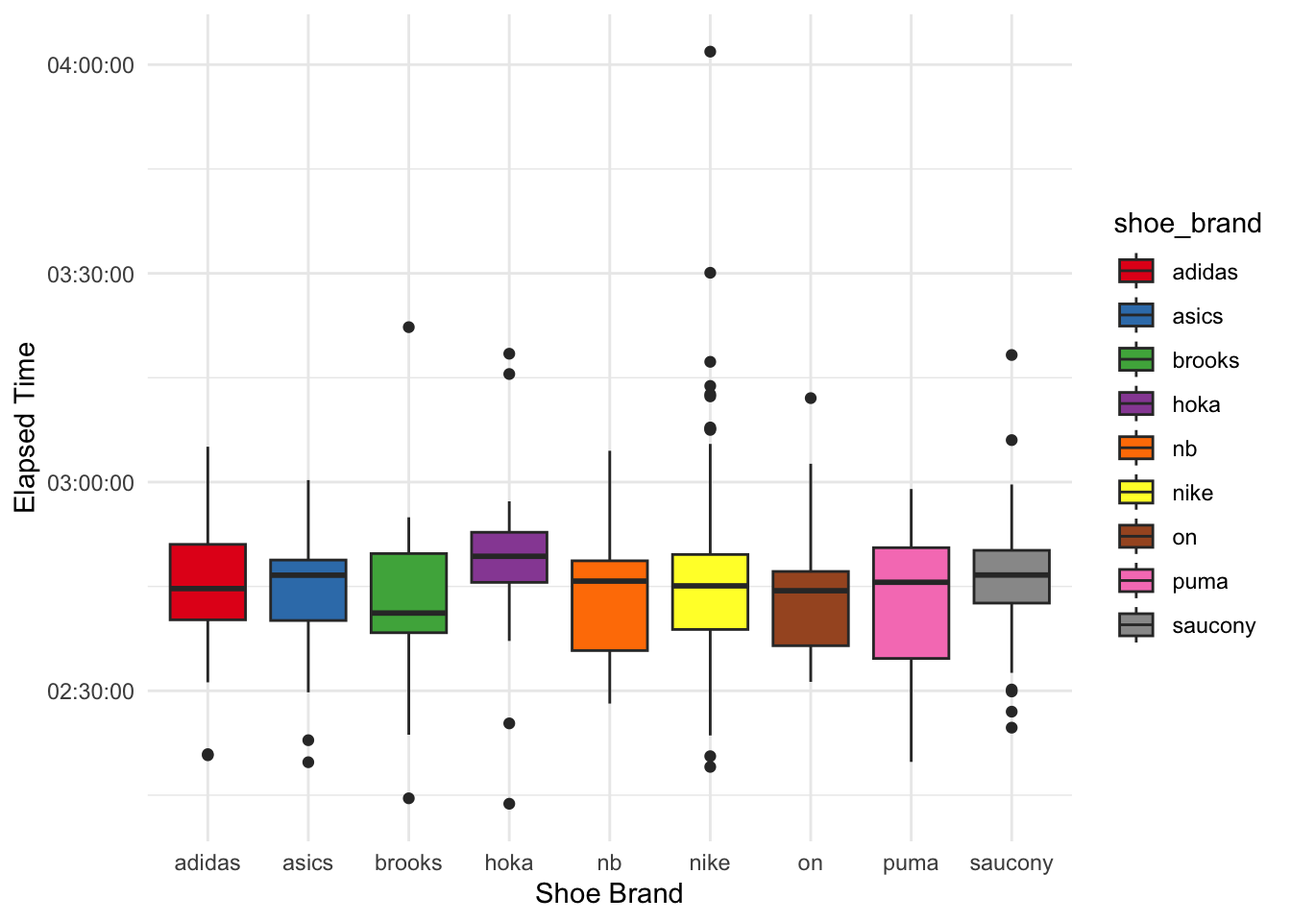
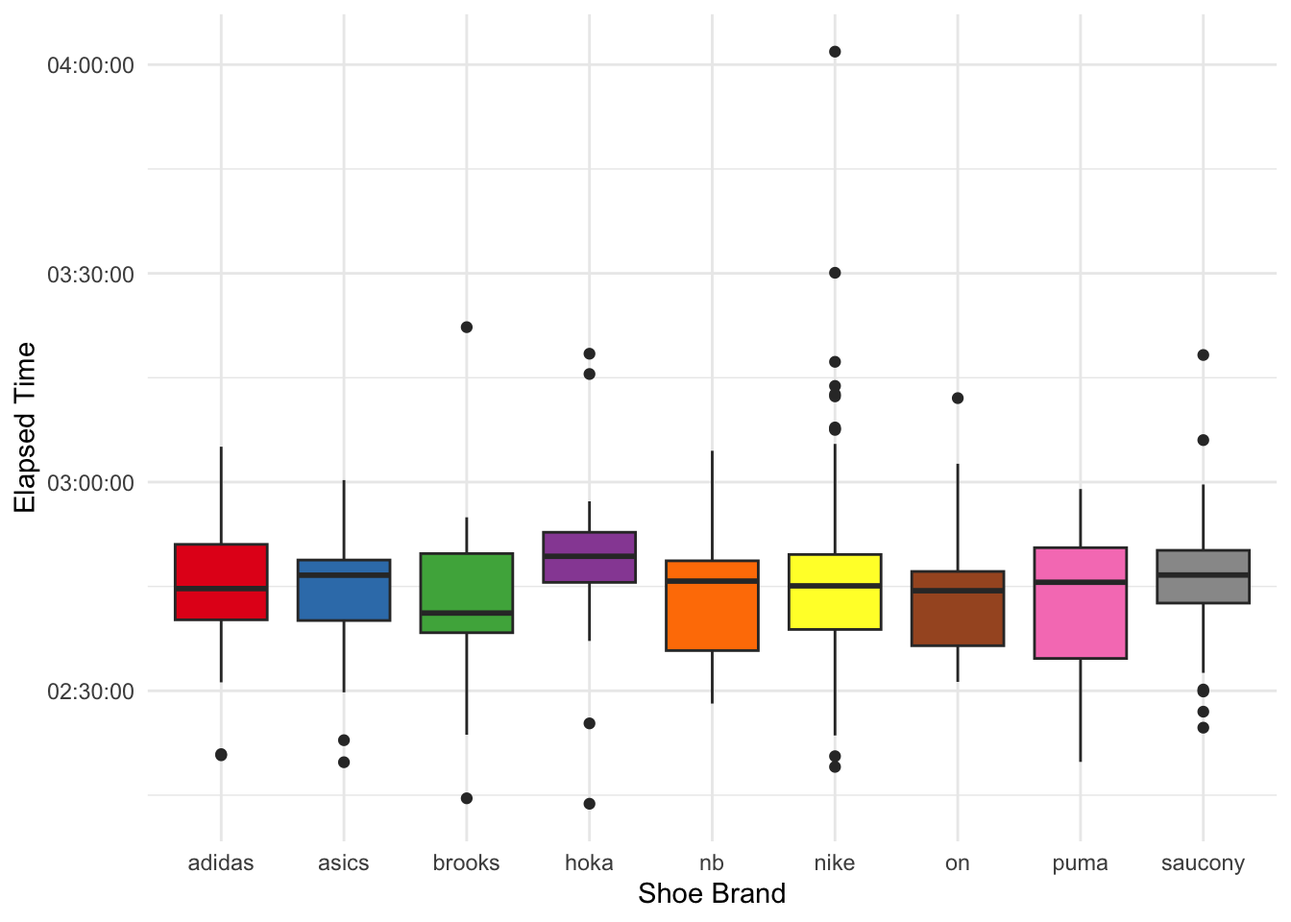
Built site for gh-pages

diff --git a/projects/boston_marathon_procrastination.html b/projects/boston_marathon_procrastination.html
@@ -174,7 +174,7 @@ pre > code.sourceCode > span > a:first-child::before { text-decoration: underlin
   <li><a href="#step-2-collecting-activity-urls" id="toc-step-2-collecting-activity-urls" class="nav-link" data-scroll-target="#step-2-collecting-activity-urls">Step 2: Collecting Activity URLs</a></li>
   <li><a href="#step-3-scraping-individual-activities" id="toc-step-3-scraping-individual-activities" class="nav-link" data-scroll-target="#step-3-scraping-individual-activities">Step 3: Scraping Individual Activities</a></li>
   <li><a href="#step-4-the-fun-part-data-cleaning-in-r" id="toc-step-4-the-fun-part-data-cleaning-in-r" class="nav-link" data-scroll-target="#step-4-the-fun-part-data-cleaning-in-r">Step 4: The Fun Part – Data Cleaning in R</a></li>
-  <li><a href="#cleaning-watches" id="toc-cleaning-watches" class="nav-link" data-scroll-target="#cleaning-watches">Cleaning Watches</a></li>
+  <li><a href="#cleaning-watch-data" id="toc-cleaning-watch-data" class="nav-link" data-scroll-target="#cleaning-watch-data">Cleaning Watch Data</a></li>
   <li><a href="#cleaning-shoes" id="toc-cleaning-shoes" class="nav-link" data-scroll-target="#cleaning-shoes">Cleaning Shoes</a></li>
   <li><a href="#descriptives" id="toc-descriptives" class="nav-link" data-scroll-target="#descriptives">Descriptives</a>
   <ul class="collapse">
@@ -561,9 +561,9 @@ pre > code.sourceCode > span > a:first-child::before { text-decoration: underlin
 </div>
 </div>
 </section>
-<section id="cleaning-watches" class="level2">
-<h2 class="anchored" data-anchor-id="cleaning-watches">Cleaning Watches</h2>
-<p>First, I wanted to know what kinds of watches people used. This data is fairly clean since they come straight from the API and, as of lately, Strava by default shows the manufacturer and model. There are of course many varieties of watches, thus I aimed to reduce them to manufacturer and model (e.g., “Garmin Forerunner” instead of “Garmin Forerunner 265 Music”).</p>
+<section id="cleaning-watch-data" class="level2">
+<h2 class="anchored" data-anchor-id="cleaning-watch-data">Cleaning Watch Data</h2>
+<p>First, I wanted to know what kinds of watches people used. This data is fairly clean since they come straight from the API and, as of lately, Strava by default shows the manufacturer and model. There are of course many varieties of watches, thus I aimed to reduce them to manufacturer and model category (e.g., “Garmin Forerunner” instead of “Garmin Forerunner 265 Music”).</p>
 <div class="cell">
 <details class="code-fold">
 <summary>Show the code</summary>
@@ -657,7 +657,7 @@ pre > code.sourceCode > span > a:first-child::before { text-decoration: underlin
 </section>
 <section id="cleaning-shoes" class="level2">
 <h2 class="anchored" data-anchor-id="cleaning-shoes">Cleaning Shoes</h2>
-<p>And of course, the shoes – because runners care about shoes almost as much as their splits. Here, the data are manually entered and, thus, messy. However, since you are forced to choose the brand from a drop down menu, at least this part is clean.</p>
+<p>And of course, the shoes – because runners care about shoes almost as much as their splits. Here, the data are manually entered by each user and, thus, messy. However, since you are forced to choose the brand from a drop down menu, at least this part is clean.</p>
 <div class="cell">
 <details class="code-fold">
 <summary>Show the code</summary>
@@ -776,8 +776,8 @@ pre > code.sourceCode > span > a:first-child::before { text-decoration: underlin
 </div>
 </div>
 </div>
-<p>The folks I scraped where quite fast, median elapsed time was around 2:45 minutes. However, there are four outliers that started very fast but paid for it eventually.</p>
-<p>Furthermore, most runners who started strong also finished strong. This is indicated by their rank in the segment and the final rank in the elapsed time (I did not scrape the exact segment time). However, some of them dearly paid for it.</p>
+<p>The folks I scraped where quite fast, median elapsed time was around 2:45 hours. However, there are four outliers that started very fast but paid for it eventually. Also, the Boston Marathon qualifying times lie at around 3:30h (depending on age and gender), so we are dealing with a very fit sub-sample here.</p>
+<p>Most runners who started strong also finished strong. The following graphs plots their rank in the segment (i.e., their position in the field at the halfway point) and the final rank in the elapsed time (I did not scrape the exact segment time). However, some of them dearly paid for it.</p>
 <div class="cell">
 <details class="code-fold">
 <summary>Show the code</summary>
@@ -827,8 +827,8 @@ pre > code.sourceCode > span > a:first-child::before { text-decoration: underlin
 <span id="cb14-16"><a href="#cb14-16" aria-hidden="true" tabindex="-1"></a>shoe_cat <span class="sc">|&gt;</span> <span class="fu">ggplotly</span>(<span class="at">tooltip =</span> <span class="st">"text"</span>)</span></code></pre></div><button title="Copy to Clipboard" class="code-copy-button"><i class="bi"></i></button></div>
 </details>
 <div class="cell-output-display">
-<div class="plotly html-widget html-fill-item" id="htmlwidget-09c203fb37da6665b587" style="width:100%;height:464px;"></div>
-<script type="application/json" data-for="htmlwidget-09c203fb37da6665b587">{"x":{"data":[{"orientation":"v","width":0.89999999999999991,"base":0,"x":[1],"y":[70],"text":"adidas, N=70","type":"bar","textposition":"none","marker":{"autocolorscale":false,"color":"rgba(228,26,28,1)","line":{"width":1.8897637795275593,"color":"transparent"}},"name":"adidas","legendgroup":"adidas","showlegend":true,"xaxis":"x","yaxis":"y","hoverinfo":"text","frame":null},{"orientation":"v","width":0.90000000000000013,"base":0,"x":[2],"y":[60],"text":"asics, N=60","type":"bar","textposition":"none","marker":{"autocolorscale":false,"color":"rgba(55,126,184,1)","line":{"width":1.8897637795275593,"color":"transparent"}},"name":"asics","legendgroup":"asics","showlegend":true,"xaxis":"x","yaxis":"y","hoverinfo":"text","frame":null},{"orientation":"v","width":0.90000000000000036,"base":0,"x":[3],"y":[10],"text":"brooks, N=10","type":"bar","textposition":"none","marker":{"autocolorscale":false,"color":"rgba(77,175,74,1)","line":{"width":1.8897637795275593,"color":"transparent"}},"name":"brooks","legendgroup":"brooks","showlegend":true,"xaxis":"x","yaxis":"y","hoverinfo":"text","frame":null},{"orientation":"v","width":0.90000000000000036,"base":0,"x":[4],"y":[17],"text":"hoka, N=17","type":"bar","textposition":"none","marker":{"autocolorscale":false,"color":"rgba(152,78,163,1)","line":{"width":1.8897637795275593,"color":"transparent"}},"name":"hoka","legendgroup":"hoka","showlegend":true,"xaxis":"x","yaxis":"y","hoverinfo":"text","frame":null},{"orientation":"v","width":0.90000000000000036,"base":0,"x":[5],"y":[21],"text":"nb, N=21","type":"bar","textposition":"none","marker":{"autocolorscale":false,"color":"rgba(255,127,0,1)","line":{"width":1.8897637795275593,"color":"transparent"}},"name":"nb","legendgroup":"nb","showlegend":true,"xaxis":"x","yaxis":"y","hoverinfo":"text","frame":null},{"orientation":"v","width":0.90000000000000036,"base":0,"x":[6],"y":[278],"text":"nike, N=278","type":"bar","textposition":"none","marker":{"autocolorscale":false,"color":"rgba(255,255,51,1)","line":{"width":1.8897637795275593,"color":"transparent"}},"name":"nike","legendgroup":"nike","showlegend":true,"xaxis":"x","yaxis":"y","hoverinfo":"text","frame":null},{"orientation":"v","width":0.90000000000000036,"base":0,"x":[7],"y":[15],"text":"on, N=15","type":"bar","textposition":"none","marker":{"autocolorscale":false,"color":"rgba(166,86,40,1)","line":{"width":1.8897637795275593,"color":"transparent"}},"name":"on","legendgroup":"on","showlegend":true,"xaxis":"x","yaxis":"y","hoverinfo":"text","frame":null},{"orientation":"v","width":0.89999999999999947,"base":0,"x":[8],"y":[29],"text":"puma, N=29","type":"bar","textposition":"none","marker":{"autocolorscale":false,"color":"rgba(247,129,191,1)","line":{"width":1.8897637795275593,"color":"transparent"}},"name":"puma","legendgroup":"puma","showlegend":true,"xaxis":"x","yaxis":"y","hoverinfo":"text","frame":null},{"orientation":"v","width":0.89999999999999858,"base":0,"x":[9],"y":[64],"text":"saucony, N=64","type":"bar","textposition":"none","marker":{"autocolorscale":false,"color":"rgba(153,153,153,1)","line":{"width":1.8897637795275593,"color":"transparent"}},"name":"saucony","legendgroup":"saucony","showlegend":true,"xaxis":"x","yaxis":"y","hoverinfo":"text","frame":null}],"layout":{"margin":{"t":23.305936073059364,"r":7.3059360730593621,"b":37.260273972602747,"l":43.105022831050235},"paper_bgcolor":"rgba(255,255,255,1)","font":{"color":"rgba(0,0,0,1)","family":"","size":14.611872146118724},"xaxis":{"domain":[0,1],"automargin":true,"type":"linear","autorange":false,"range":[0.40000000000000002,9.5999999999999996],"tickmode":"array","ticktext":["adidas","asics","brooks","hoka","nb","nike","on","puma","saucony"],"tickvals":[1,2,3,4,5,6,6.9999999999999991,8,9],"categoryorder":"array","categoryarray":["adidas","asics","brooks","hoka","nb","nike","on","puma","saucony"],"nticks":null,"ticks":"","tickcolor":null,"ticklen":3.6529680365296811,"tickwidth":0,"showticklabels":true,"tickfont":{"color":"rgba(77,77,77,1)","family":"","size":11.68949771689498},"tickangle":-0,"showline":false,"linecolor":null,"linewidth":0,"showgrid":true,"gridcolor":"rgba(235,235,235,1)","gridwidth":0,"zeroline":false,"anchor":"y","title":{"text":"Shoe Brand","font":{"color":"rgba(0,0,0,1)","family":"","size":14.611872146118724}},"hoverformat":".2f"},"yaxis":{"domain":[0,1],"automargin":true,"type":"linear","autorange":false,"range":[-13.9,291.89999999999998],"tickmode":"array","ticktext":["0","100","200"],"tickvals":[0,100,200],"categoryorder":"array","categoryarray":["0","100","200"],"nticks":null,"ticks":"","tickcolor":null,"ticklen":3.6529680365296811,"tickwidth":0,"showticklabels":true,"tickfont":{"color":"rgba(77,77,77,1)","family":"","size":11.68949771689498},"tickangle":-0,"showline":false,"linecolor":null,"linewidth":0,"showgrid":true,"gridcolor":"rgba(235,235,235,1)","gridwidth":0,"zeroline":false,"anchor":"x","title":{"text":"N","font":{"color":"rgba(0,0,0,1)","family":"","size":14.611872146118724}},"hoverformat":".2f"},"shapes":[{"type":"rect","fillcolor":null,"line":{"color":null,"width":0,"linetype":[]},"yref":"paper","xref":"paper","layer":"below","x0":0,"x1":1,"y0":0,"y1":1}],"showlegend":false,"legend":{"bgcolor":null,"bordercolor":null,"borderwidth":0,"font":{"color":"rgba(0,0,0,1)","family":"","size":11.68949771689498}},"hovermode":"closest","barmode":"relative"},"config":{"doubleClick":"reset","modeBarButtonsToAdd":["hoverclosest","hovercompare"],"showSendToCloud":false},"source":"A","attrs":{"107a3218a0275":{"x":{},"fill":{},"text":{},"type":"bar"}},"cur_data":"107a3218a0275","visdat":{"107a3218a0275":["function (y) ","x"]},"highlight":{"on":"plotly_click","persistent":false,"dynamic":false,"selectize":false,"opacityDim":0.20000000000000001,"selected":{"opacity":1},"debounce":0},"shinyEvents":["plotly_hover","plotly_click","plotly_selected","plotly_relayout","plotly_brushed","plotly_brushing","plotly_clickannotation","plotly_doubleclick","plotly_deselect","plotly_afterplot","plotly_sunburstclick"],"base_url":"https://plot.ly"},"evals":[],"jsHooks":[]}</script>
+<div class="plotly html-widget html-fill-item" id="htmlwidget-5b1e8bb3b253fdeb2d6c" style="width:100%;height:464px;"></div>
+<script type="application/json" data-for="htmlwidget-5b1e8bb3b253fdeb2d6c">{"x":{"data":[{"orientation":"v","width":0.89999999999999991,"base":0,"x":[1],"y":[70],"text":"adidas, N=70","type":"bar","textposition":"none","marker":{"autocolorscale":false,"color":"rgba(228,26,28,1)","line":{"width":1.8897637795275593,"color":"transparent"}},"name":"adidas","legendgroup":"adidas","showlegend":true,"xaxis":"x","yaxis":"y","hoverinfo":"text","frame":null},{"orientation":"v","width":0.90000000000000013,"base":0,"x":[2],"y":[60],"text":"asics, N=60","type":"bar","textposition":"none","marker":{"autocolorscale":false,"color":"rgba(55,126,184,1)","line":{"width":1.8897637795275593,"color":"transparent"}},"name":"asics","legendgroup":"asics","showlegend":true,"xaxis":"x","yaxis":"y","hoverinfo":"text","frame":null},{"orientation":"v","width":0.90000000000000036,"base":0,"x":[3],"y":[10],"text":"brooks, N=10","type":"bar","textposition":"none","marker":{"autocolorscale":false,"color":"rgba(77,175,74,1)","line":{"width":1.8897637795275593,"color":"transparent"}},"name":"brooks","legendgroup":"brooks","showlegend":true,"xaxis":"x","yaxis":"y","hoverinfo":"text","frame":null},{"orientation":"v","width":0.90000000000000036,"base":0,"x":[4],"y":[17],"text":"hoka, N=17","type":"bar","textposition":"none","marker":{"autocolorscale":false,"color":"rgba(152,78,163,1)","line":{"width":1.8897637795275593,"color":"transparent"}},"name":"hoka","legendgroup":"hoka","showlegend":true,"xaxis":"x","yaxis":"y","hoverinfo":"text","frame":null},{"orientation":"v","width":0.90000000000000036,"base":0,"x":[5],"y":[21],"text":"nb, N=21","type":"bar","textposition":"none","marker":{"autocolorscale":false,"color":"rgba(255,127,0,1)","line":{"width":1.8897637795275593,"color":"transparent"}},"name":"nb","legendgroup":"nb","showlegend":true,"xaxis":"x","yaxis":"y","hoverinfo":"text","frame":null},{"orientation":"v","width":0.90000000000000036,"base":0,"x":[6],"y":[278],"text":"nike, N=278","type":"bar","textposition":"none","marker":{"autocolorscale":false,"color":"rgba(255,255,51,1)","line":{"width":1.8897637795275593,"color":"transparent"}},"name":"nike","legendgroup":"nike","showlegend":true,"xaxis":"x","yaxis":"y","hoverinfo":"text","frame":null},{"orientation":"v","width":0.90000000000000036,"base":0,"x":[7],"y":[15],"text":"on, N=15","type":"bar","textposition":"none","marker":{"autocolorscale":false,"color":"rgba(166,86,40,1)","line":{"width":1.8897637795275593,"color":"transparent"}},"name":"on","legendgroup":"on","showlegend":true,"xaxis":"x","yaxis":"y","hoverinfo":"text","frame":null},{"orientation":"v","width":0.89999999999999947,"base":0,"x":[8],"y":[29],"text":"puma, N=29","type":"bar","textposition":"none","marker":{"autocolorscale":false,"color":"rgba(247,129,191,1)","line":{"width":1.8897637795275593,"color":"transparent"}},"name":"puma","legendgroup":"puma","showlegend":true,"xaxis":"x","yaxis":"y","hoverinfo":"text","frame":null},{"orientation":"v","width":0.89999999999999858,"base":0,"x":[9],"y":[64],"text":"saucony, N=64","type":"bar","textposition":"none","marker":{"autocolorscale":false,"color":"rgba(153,153,153,1)","line":{"width":1.8897637795275593,"color":"transparent"}},"name":"saucony","legendgroup":"saucony","showlegend":true,"xaxis":"x","yaxis":"y","hoverinfo":"text","frame":null}],"layout":{"margin":{"t":23.305936073059364,"r":7.3059360730593621,"b":37.260273972602747,"l":43.105022831050235},"paper_bgcolor":"rgba(255,255,255,1)","font":{"color":"rgba(0,0,0,1)","family":"","size":14.611872146118724},"xaxis":{"domain":[0,1],"automargin":true,"type":"linear","autorange":false,"range":[0.40000000000000002,9.5999999999999996],"tickmode":"array","ticktext":["adidas","asics","brooks","hoka","nb","nike","on","puma","saucony"],"tickvals":[1,2,3,4,5,6,6.9999999999999991,8,9],"categoryorder":"array","categoryarray":["adidas","asics","brooks","hoka","nb","nike","on","puma","saucony"],"nticks":null,"ticks":"","tickcolor":null,"ticklen":3.6529680365296811,"tickwidth":0,"showticklabels":true,"tickfont":{"color":"rgba(77,77,77,1)","family":"","size":11.68949771689498},"tickangle":-0,"showline":false,"linecolor":null,"linewidth":0,"showgrid":true,"gridcolor":"rgba(235,235,235,1)","gridwidth":0,"zeroline":false,"anchor":"y","title":{"text":"Shoe Brand","font":{"color":"rgba(0,0,0,1)","family":"","size":14.611872146118724}},"hoverformat":".2f"},"yaxis":{"domain":[0,1],"automargin":true,"type":"linear","autorange":false,"range":[-13.9,291.89999999999998],"tickmode":"array","ticktext":["0","100","200"],"tickvals":[0,100,200],"categoryorder":"array","categoryarray":["0","100","200"],"nticks":null,"ticks":"","tickcolor":null,"ticklen":3.6529680365296811,"tickwidth":0,"showticklabels":true,"tickfont":{"color":"rgba(77,77,77,1)","family":"","size":11.68949771689498},"tickangle":-0,"showline":false,"linecolor":null,"linewidth":0,"showgrid":true,"gridcolor":"rgba(235,235,235,1)","gridwidth":0,"zeroline":false,"anchor":"x","title":{"text":"N","font":{"color":"rgba(0,0,0,1)","family":"","size":14.611872146118724}},"hoverformat":".2f"},"shapes":[{"type":"rect","fillcolor":null,"line":{"color":null,"width":0,"linetype":[]},"yref":"paper","xref":"paper","layer":"below","x0":0,"x1":1,"y0":0,"y1":1}],"showlegend":false,"legend":{"bgcolor":null,"bordercolor":null,"borderwidth":0,"font":{"color":"rgba(0,0,0,1)","family":"","size":11.68949771689498}},"hovermode":"closest","barmode":"relative"},"config":{"doubleClick":"reset","modeBarButtonsToAdd":["hoverclosest","hovercompare"],"showSendToCloud":false},"source":"A","attrs":{"109e15c8fb94d":{"x":{},"fill":{},"text":{},"type":"bar"}},"cur_data":"109e15c8fb94d","visdat":{"109e15c8fb94d":["function (y) ","x"]},"highlight":{"on":"plotly_click","persistent":false,"dynamic":false,"selectize":false,"opacityDim":0.20000000000000001,"selected":{"opacity":1},"debounce":0},"shinyEvents":["plotly_hover","plotly_click","plotly_selected","plotly_relayout","plotly_brushed","plotly_brushing","plotly_clickannotation","plotly_doubleclick","plotly_deselect","plotly_afterplot","plotly_sunburstclick"],"base_url":"https://plot.ly"},"evals":[],"jsHooks":[]}</script>
 </div>
 </div>
 <p>Nike clearly dominates here.</p>
@@ -855,8 +855,8 @@ pre > code.sourceCode > span > a:first-child::before { text-decoration: underlin
 <span id="cb15-17"><a href="#cb15-17" aria-hidden="true" tabindex="-1"></a>watch_model_cat <span class="sc">|&gt;</span> <span class="fu">ggplotly</span>(<span class="at">tooltip =</span> <span class="st">"text"</span>)</span></code></pre></div><button title="Copy to Clipboard" class="code-copy-button"><i class="bi"></i></button></div>
 </details>
 <div class="cell-output-display">
-<div class="plotly html-widget html-fill-item" id="htmlwidget-c178143cde78e5b0a497" style="width:100%;height:464px;"></div>
-<script type="application/json" data-for="htmlwidget-c178143cde78e5b0a497">{"x":{"data":[{"orientation":"v","width":0.90000000000000036,"base":13,"x":[5],"y":[1],"text":"5, N=1","type":"bar","textposition":"none","marker":{"autocolorscale":false,"color":"rgba(228,26,28,1)","line":{"width":1.8897637795275593,"color":"transparent"}},"name":"5","legendgroup":"5","showlegend":true,"xaxis":"x","yaxis":"y","hoverinfo":"text","frame":null},{"orientation":"v","width":0.90000000000000036,"base":9,"x":[5],"y":[4],"text":"9, N=4","type":"bar","textposition":"none","marker":{"autocolorscale":false,"color":"rgba(55,126,184,1)","line":{"width":1.8897637795275593,"color":"transparent"}},"name":"9","legendgroup":"9","showlegend":true,"xaxis":"x","yaxis":"y","hoverinfo":"text","frame":null},{"orientation":"v","width":0.90000000000000036,"base":8,"x":[5],"y":[1],"text":"ambit3, N=1","type":"bar","textposition":"none","marker":{"autocolorscale":false,"color":"rgba(77,175,74,1)","line":{"width":1.8897637795275593,"color":"transparent"}},"name":"ambit3","legendgroup":"ambit3","showlegend":true,"xaxis":"x","yaxis":"y","hoverinfo":"text","frame":null},{"orientation":"v","width":0.90000000000000013,"base":136,"x":[2],"y":[42],"text":"apex, N=42","type":"bar","textposition":"none","marker":{"autocolorscale":false,"color":"rgba(152,78,163,1)","line":{"width":1.8897637795275593,"color":"transparent"}},"name":"apex","legendgroup":"apex","showlegend":true,"xaxis":"x","yaxis":"y","hoverinfo":"text","frame":null},{"orientation":"v","width":0.90000000000000036,"base":919,"x":[3],"y":[1],"text":"connect, N=1","type":"bar","textposition":"none","marker":{"autocolorscale":false,"color":"rgba(255,127,0,1)","line":{"width":1.8897637795275593,"color":"transparent"}},"name":"connect","legendgroup":"connect","showlegend":true,"xaxis":"x","yaxis":"y","hoverinfo":"text","frame":null},{"orientation":"v","width":0.90000000000000036,"base":905,"x":[3],"y":[14],"text":"enduro, N=14","type":"bar","textposition":"none","marker":{"autocolorscale":false,"color":"rgba(255,255,51,1)","line":{"width":1.8897637795275593,"color":"transparent"}},"name":"enduro","legendgroup":"enduro","showlegend":true,"xaxis":"x","yaxis":"y","hoverinfo":"text","frame":null},{"orientation":"v","width":0.90000000000000036,"base":878,"x":[3],"y":[27],"text":"epix, N=27","type":"bar","textposition":"none","marker":{"autocolorscale":false,"color":"rgba(166,86,40,1)","line":{"width":1.8897637795275593,"color":"transparent"}},"name":"epix","legendgroup":"epix","showlegend":true,"xaxis":"x","yaxis":"y","hoverinfo":"text","frame":null},{"orientation":"v","width":0.90000000000000036,"base":733,"x":[3],"y":[145],"text":"fēnix, N=145","type":"bar","textposition":"none","marker":{"autocolorscale":false,"color":"rgba(247,129,191,1)","line":{"width":1.8897637795275593,"color":"transparent"}},"name":"fēnix","legendgroup":"fēnix","showlegend":true,"xaxis":"x","yaxis":"y","hoverinfo":"text","frame":null},{"orientation":"v","width":0.90000000000000036,"base":28,"x":[3],"y":[705],"text":"forerunner, N=705","type":"bar","textposition":"none","marker":{"autocolorscale":false,"color":"rgba(153,153,153,1)","line":{"width":1.8897637795275593,"color":"transparent"}},"name":"forerunner","legendgroup":"forerunner","showlegend":true,"xaxis":"x","yaxis":"y","hoverinfo":"text","frame":null},{"orientation":"v","width":0.90000000000000036,"base":7,"x":[4],"y":[3],"text":"grit, N=3","type":"bar","textposition":"none","marker":{"autocolorscale":false,"color":"rgba(27,158,119,1)","line":{"width":1.8897637795275593,"color":"transparent"}},"name":"grit","legendgroup":"grit","showlegend":true,"xaxis":"x","yaxis":"y","hoverinfo":"text","frame":null},{"orientation":"v","width":0.90000000000000036,"base":18,"x":[3],"y":[10],"text":"instinct, N=10","type":"bar","textposition":"none","marker":{"autocolorscale":false,"color":"rgba(217,95,2,1)","line":{"width":1.8897637795275593,"color":"transparent"}},"name":"instinct","legendgroup":"instinct","showlegend":true,"xaxis":"x","yaxis":"y","hoverinfo":"text","frame":null},{"orientation":"v","width":0.90000000000000036,"base":17,"x":[3],"y":[1],"text":"marq, N=1","type":"bar","textposition":"none","marker":{"autocolorscale":false,"color":"rgba(117,112,179,1)","line":{"width":1.8897637795275593,"color":"transparent"}},"name":"marq","legendgroup":"marq","showlegend":true,"xaxis":"x","yaxis":"y","hoverinfo":"text","frame":null},{"orientation":"v","width":0.90000000000000036,"base":7,"x":[5],"y":[1],"text":"ocean, N=1","type":"bar","textposition":"none","marker":{"autocolorscale":false,"color":"rgba(231,41,138,1)","line":{"width":1.8897637795275593,"color":"transparent"}},"name":"ocean","legendgroup":"ocean","showlegend":true,"xaxis":"x","yaxis":"y","hoverinfo":"text","frame":null},{"orientation":"v","width":0.90000000000000013,"base":5,"x":[2],"y":[131],"text":"pace, N=131","type":"bar","textposition":"none","marker":{"autocolorscale":false,"color":"rgba(102,166,30,1)","line":{"width":1.8897637795275593,"color":"transparent"}},"name":"pace","legendgroup":"pace","showlegend":true,"xaxis":"x","yaxis":"y","hoverinfo":"text","frame":null},{"orientation":"v","width":0.90000000000000036,"base":5,"x":[4],"y":[2],"text":"pacer, N=2","type":"bar","textposition":"none","marker":{"autocolorscale":false,"color":"rgba(230,171,2,1)","line":{"width":1.8897637795275593,"color":"transparent"}},"name":"pacer","legendgroup":"pacer","showlegend":true,"xaxis":"x","yaxis":"y","hoverinfo":"text","frame":null},{"orientation":"v","width":0.90000000000000036,"base":0,"x":[5],"y":[7],"text":"race, N=7","type":"bar","textposition":"none","marker":{"autocolorscale":false,"color":"rgba(166,118,29,1)","line":{"width":1.8897637795275593,"color":"transparent"}},"name":"race","legendgroup":"race","showlegend":true,"xaxis":"x","yaxis":"y","hoverinfo":"text","frame":null},{"orientation":"v","width":0.90000000000000036,"base":0,"x":[4],"y":[5],"text":"vantage, N=5","type":"bar","textposition":"none","marker":{"autocolorscale":false,"color":"rgba(102,102,102,1)","line":{"width":1.8897637795275593,"color":"transparent"}},"name":"vantage","legendgroup":"vantage","showlegend":true,"xaxis":"x","yaxis":"y","hoverinfo":"text","frame":null},{"orientation":"v","width":0.90000000000000036,"base":7,"x":[3],"y":[10],"text":"venu, N=10","type":"bar","textposition":"none","marker":{"autocolorscale":false,"color":"rgba(102,194,165,1)","line":{"width":1.8897637795275593,"color":"transparent"}},"name":"venu","legendgroup":"venu","showlegend":true,"xaxis":"x","yaxis":"y","hoverinfo":"text","frame":null},{"orientation":"v","width":0.90000000000000013,"base":0,"x":[2],"y":[5],"text":"vertix, N=5","type":"bar","textposition":"none","marker":{"autocolorscale":false,"color":"rgba(252,141,98,1)","line":{"width":1.8897637795275593,"color":"transparent"}},"name":"vertix","legendgroup":"vertix","showlegend":true,"xaxis":"x","yaxis":"y","hoverinfo":"text","frame":null},{"orientation":"v","width":0.90000000000000036,"base":0,"x":[3],"y":[7],"text":"vívoactive, N=7","type":"bar","textposition":"none","marker":{"autocolorscale":false,"color":"rgba(141,160,203,1)","line":{"width":1.8897637795275593,"color":"transparent"}},"name":"vívoactive","legendgroup":"vívoactive","showlegend":true,"xaxis":"x","yaxis":"y","hoverinfo":"text","frame":null},{"orientation":"v","width":0.89999999999999991,"base":26,"x":[1],"y":[11],"text":"watch, N=11","type":"bar","textposition":"none","marker":{"autocolorscale":false,"color":"rgba(231,138,195,1)","line":{"width":1.8897637795275593,"color":"transparent"}},"name":"watch","legendgroup":"watch","showlegend":true,"xaxis":"x","yaxis":"y","hoverinfo":"text","frame":null},{"orientation":"v","width":0.89999999999999991,"base":24,"x":[1],"y":[2],"text":"watch se, N=2","type":"bar","textposition":"none","marker":{"autocolorscale":false,"color":"rgba(166,216,84,1)","line":{"width":1.8897637795275593,"color":"transparent"}},"name":"watch se","legendgroup":"watch se","showlegend":true,"xaxis":"x","yaxis":"y","hoverinfo":"text","frame":null},{"orientation":"v","width":0.89999999999999991,"base":0,"x":[1],"y":[24],"text":"watch ultra, N=24","type":"bar","textposition":"none","marker":{"autocolorscale":false,"color":"rgba(255,217,47,1)","line":{"width":1.8897637795275593,"color":"transparent"}},"name":"watch ultra","legendgroup":"watch ultra","showlegend":true,"xaxis":"x","yaxis":"y","hoverinfo":"text","frame":null}],"layout":{"margin":{"t":23.305936073059364,"r":7.3059360730593621,"b":37.260273972602747,"l":43.105022831050235},"paper_bgcolor":"rgba(255,255,255,1)","font":{"color":"rgba(0,0,0,1)","family":"","size":14.611872146118724},"xaxis":{"domain":[0,1],"automargin":true,"type":"linear","autorange":false,"range":[0.40000000000000002,5.5999999999999996],"tickmode":"array","ticktext":["apple","coros","garmin","polar","suunto"],"tickvals":[1,2,3,4,5],"categoryorder":"array","categoryarray":["apple","coros","garmin","polar","suunto"],"nticks":null,"ticks":"","tickcolor":null,"ticklen":3.6529680365296811,"tickwidth":0,"showticklabels":true,"tickfont":{"color":"rgba(77,77,77,1)","family":"","size":11.68949771689498},"tickangle":-0,"showline":false,"linecolor":null,"linewidth":0,"showgrid":true,"gridcolor":"rgba(235,235,235,1)","gridwidth":0,"zeroline":false,"anchor":"y","title":{"text":"Watch Brand","font":{"color":"rgba(0,0,0,1)","family":"","size":14.611872146118724}},"hoverformat":".2f"},"yaxis":{"domain":[0,1],"automargin":true,"type":"linear","autorange":false,"range":[-46,966],"tickmode":"array","ticktext":["0","250","500","750"],"tickvals":[0,250,500,750],"categoryorder":"array","categoryarray":["0","250","500","750"],"nticks":null,"ticks":"","tickcolor":null,"ticklen":3.6529680365296811,"tickwidth":0,"showticklabels":true,"tickfont":{"color":"rgba(77,77,77,1)","family":"","size":11.68949771689498},"tickangle":-0,"showline":false,"linecolor":null,"linewidth":0,"showgrid":true,"gridcolor":"rgba(235,235,235,1)","gridwidth":0,"zeroline":false,"anchor":"x","title":{"text":"N","font":{"color":"rgba(0,0,0,1)","family":"","size":14.611872146118724}},"hoverformat":".2f"},"shapes":[{"type":"rect","fillcolor":null,"line":{"color":null,"width":0,"linetype":[]},"yref":"paper","xref":"paper","layer":"below","x0":0,"x1":1,"y0":0,"y1":1}],"showlegend":false,"legend":{"bgcolor":null,"bordercolor":null,"borderwidth":0,"font":{"color":"rgba(0,0,0,1)","family":"","size":11.68949771689498}},"hovermode":"closest","barmode":"relative"},"config":{"doubleClick":"reset","modeBarButtonsToAdd":["hoverclosest","hovercompare"],"showSendToCloud":false},"source":"A","attrs":{"107a34e1a3aa2":{"x":{},"fill":{},"text":{},"type":"bar"}},"cur_data":"107a34e1a3aa2","visdat":{"107a34e1a3aa2":["function (y) ","x"]},"highlight":{"on":"plotly_click","persistent":false,"dynamic":false,"selectize":false,"opacityDim":0.20000000000000001,"selected":{"opacity":1},"debounce":0},"shinyEvents":["plotly_hover","plotly_click","plotly_selected","plotly_relayout","plotly_brushed","plotly_brushing","plotly_clickannotation","plotly_doubleclick","plotly_deselect","plotly_afterplot","plotly_sunburstclick"],"base_url":"https://plot.ly"},"evals":[],"jsHooks":[]}</script>
+<div class="plotly html-widget html-fill-item" id="htmlwidget-726a1503ce61a85c96fc" style="width:100%;height:464px;"></div>
+<script type="application/json" data-for="htmlwidget-726a1503ce61a85c96fc">{"x":{"data":[{"orientation":"v","width":0.90000000000000036,"base":13,"x":[5],"y":[1],"text":"5, N=1","type":"bar","textposition":"none","marker":{"autocolorscale":false,"color":"rgba(228,26,28,1)","line":{"width":1.8897637795275593,"color":"transparent"}},"name":"5","legendgroup":"5","showlegend":true,"xaxis":"x","yaxis":"y","hoverinfo":"text","frame":null},{"orientation":"v","width":0.90000000000000036,"base":9,"x":[5],"y":[4],"text":"9, N=4","type":"bar","textposition":"none","marker":{"autocolorscale":false,"color":"rgba(55,126,184,1)","line":{"width":1.8897637795275593,"color":"transparent"}},"name":"9","legendgroup":"9","showlegend":true,"xaxis":"x","yaxis":"y","hoverinfo":"text","frame":null},{"orientation":"v","width":0.90000000000000036,"base":8,"x":[5],"y":[1],"text":"ambit3, N=1","type":"bar","textposition":"none","marker":{"autocolorscale":false,"color":"rgba(77,175,74,1)","line":{"width":1.8897637795275593,"color":"transparent"}},"name":"ambit3","legendgroup":"ambit3","showlegend":true,"xaxis":"x","yaxis":"y","hoverinfo":"text","frame":null},{"orientation":"v","width":0.90000000000000013,"base":136,"x":[2],"y":[42],"text":"apex, N=42","type":"bar","textposition":"none","marker":{"autocolorscale":false,"color":"rgba(152,78,163,1)","line":{"width":1.8897637795275593,"color":"transparent"}},"name":"apex","legendgroup":"apex","showlegend":true,"xaxis":"x","yaxis":"y","hoverinfo":"text","frame":null},{"orientation":"v","width":0.90000000000000036,"base":919,"x":[3],"y":[1],"text":"connect, N=1","type":"bar","textposition":"none","marker":{"autocolorscale":false,"color":"rgba(255,127,0,1)","line":{"width":1.8897637795275593,"color":"transparent"}},"name":"connect","legendgroup":"connect","showlegend":true,"xaxis":"x","yaxis":"y","hoverinfo":"text","frame":null},{"orientation":"v","width":0.90000000000000036,"base":905,"x":[3],"y":[14],"text":"enduro, N=14","type":"bar","textposition":"none","marker":{"autocolorscale":false,"color":"rgba(255,255,51,1)","line":{"width":1.8897637795275593,"color":"transparent"}},"name":"enduro","legendgroup":"enduro","showlegend":true,"xaxis":"x","yaxis":"y","hoverinfo":"text","frame":null},{"orientation":"v","width":0.90000000000000036,"base":878,"x":[3],"y":[27],"text":"epix, N=27","type":"bar","textposition":"none","marker":{"autocolorscale":false,"color":"rgba(166,86,40,1)","line":{"width":1.8897637795275593,"color":"transparent"}},"name":"epix","legendgroup":"epix","showlegend":true,"xaxis":"x","yaxis":"y","hoverinfo":"text","frame":null},{"orientation":"v","width":0.90000000000000036,"base":733,"x":[3],"y":[145],"text":"fēnix, N=145","type":"bar","textposition":"none","marker":{"autocolorscale":false,"color":"rgba(247,129,191,1)","line":{"width":1.8897637795275593,"color":"transparent"}},"name":"fēnix","legendgroup":"fēnix","showlegend":true,"xaxis":"x","yaxis":"y","hoverinfo":"text","frame":null},{"orientation":"v","width":0.90000000000000036,"base":28,"x":[3],"y":[705],"text":"forerunner, N=705","type":"bar","textposition":"none","marker":{"autocolorscale":false,"color":"rgba(153,153,153,1)","line":{"width":1.8897637795275593,"color":"transparent"}},"name":"forerunner","legendgroup":"forerunner","showlegend":true,"xaxis":"x","yaxis":"y","hoverinfo":"text","frame":null},{"orientation":"v","width":0.90000000000000036,"base":7,"x":[4],"y":[3],"text":"grit, N=3","type":"bar","textposition":"none","marker":{"autocolorscale":false,"color":"rgba(27,158,119,1)","line":{"width":1.8897637795275593,"color":"transparent"}},"name":"grit","legendgroup":"grit","showlegend":true,"xaxis":"x","yaxis":"y","hoverinfo":"text","frame":null},{"orientation":"v","width":0.90000000000000036,"base":18,"x":[3],"y":[10],"text":"instinct, N=10","type":"bar","textposition":"none","marker":{"autocolorscale":false,"color":"rgba(217,95,2,1)","line":{"width":1.8897637795275593,"color":"transparent"}},"name":"instinct","legendgroup":"instinct","showlegend":true,"xaxis":"x","yaxis":"y","hoverinfo":"text","frame":null},{"orientation":"v","width":0.90000000000000036,"base":17,"x":[3],"y":[1],"text":"marq, N=1","type":"bar","textposition":"none","marker":{"autocolorscale":false,"color":"rgba(117,112,179,1)","line":{"width":1.8897637795275593,"color":"transparent"}},"name":"marq","legendgroup":"marq","showlegend":true,"xaxis":"x","yaxis":"y","hoverinfo":"text","frame":null},{"orientation":"v","width":0.90000000000000036,"base":7,"x":[5],"y":[1],"text":"ocean, N=1","type":"bar","textposition":"none","marker":{"autocolorscale":false,"color":"rgba(231,41,138,1)","line":{"width":1.8897637795275593,"color":"transparent"}},"name":"ocean","legendgroup":"ocean","showlegend":true,"xaxis":"x","yaxis":"y","hoverinfo":"text","frame":null},{"orientation":"v","width":0.90000000000000013,"base":5,"x":[2],"y":[131],"text":"pace, N=131","type":"bar","textposition":"none","marker":{"autocolorscale":false,"color":"rgba(102,166,30,1)","line":{"width":1.8897637795275593,"color":"transparent"}},"name":"pace","legendgroup":"pace","showlegend":true,"xaxis":"x","yaxis":"y","hoverinfo":"text","frame":null},{"orientation":"v","width":0.90000000000000036,"base":5,"x":[4],"y":[2],"text":"pacer, N=2","type":"bar","textposition":"none","marker":{"autocolorscale":false,"color":"rgba(230,171,2,1)","line":{"width":1.8897637795275593,"color":"transparent"}},"name":"pacer","legendgroup":"pacer","showlegend":true,"xaxis":"x","yaxis":"y","hoverinfo":"text","frame":null},{"orientation":"v","width":0.90000000000000036,"base":0,"x":[5],"y":[7],"text":"race, N=7","type":"bar","textposition":"none","marker":{"autocolorscale":false,"color":"rgba(166,118,29,1)","line":{"width":1.8897637795275593,"color":"transparent"}},"name":"race","legendgroup":"race","showlegend":true,"xaxis":"x","yaxis":"y","hoverinfo":"text","frame":null},{"orientation":"v","width":0.90000000000000036,"base":0,"x":[4],"y":[5],"text":"vantage, N=5","type":"bar","textposition":"none","marker":{"autocolorscale":false,"color":"rgba(102,102,102,1)","line":{"width":1.8897637795275593,"color":"transparent"}},"name":"vantage","legendgroup":"vantage","showlegend":true,"xaxis":"x","yaxis":"y","hoverinfo":"text","frame":null},{"orientation":"v","width":0.90000000000000036,"base":7,"x":[3],"y":[10],"text":"venu, N=10","type":"bar","textposition":"none","marker":{"autocolorscale":false,"color":"rgba(102,194,165,1)","line":{"width":1.8897637795275593,"color":"transparent"}},"name":"venu","legendgroup":"venu","showlegend":true,"xaxis":"x","yaxis":"y","hoverinfo":"text","frame":null},{"orientation":"v","width":0.90000000000000013,"base":0,"x":[2],"y":[5],"text":"vertix, N=5","type":"bar","textposition":"none","marker":{"autocolorscale":false,"color":"rgba(252,141,98,1)","line":{"width":1.8897637795275593,"color":"transparent"}},"name":"vertix","legendgroup":"vertix","showlegend":true,"xaxis":"x","yaxis":"y","hoverinfo":"text","frame":null},{"orientation":"v","width":0.90000000000000036,"base":0,"x":[3],"y":[7],"text":"vívoactive, N=7","type":"bar","textposition":"none","marker":{"autocolorscale":false,"color":"rgba(141,160,203,1)","line":{"width":1.8897637795275593,"color":"transparent"}},"name":"vívoactive","legendgroup":"vívoactive","showlegend":true,"xaxis":"x","yaxis":"y","hoverinfo":"text","frame":null},{"orientation":"v","width":0.89999999999999991,"base":26,"x":[1],"y":[11],"text":"watch, N=11","type":"bar","textposition":"none","marker":{"autocolorscale":false,"color":"rgba(231,138,195,1)","line":{"width":1.8897637795275593,"color":"transparent"}},"name":"watch","legendgroup":"watch","showlegend":true,"xaxis":"x","yaxis":"y","hoverinfo":"text","frame":null},{"orientation":"v","width":0.89999999999999991,"base":24,"x":[1],"y":[2],"text":"watch se, N=2","type":"bar","textposition":"none","marker":{"autocolorscale":false,"color":"rgba(166,216,84,1)","line":{"width":1.8897637795275593,"color":"transparent"}},"name":"watch se","legendgroup":"watch se","showlegend":true,"xaxis":"x","yaxis":"y","hoverinfo":"text","frame":null},{"orientation":"v","width":0.89999999999999991,"base":0,"x":[1],"y":[24],"text":"watch ultra, N=24","type":"bar","textposition":"none","marker":{"autocolorscale":false,"color":"rgba(255,217,47,1)","line":{"width":1.8897637795275593,"color":"transparent"}},"name":"watch ultra","legendgroup":"watch ultra","showlegend":true,"xaxis":"x","yaxis":"y","hoverinfo":"text","frame":null}],"layout":{"margin":{"t":23.305936073059364,"r":7.3059360730593621,"b":37.260273972602747,"l":43.105022831050235},"paper_bgcolor":"rgba(255,255,255,1)","font":{"color":"rgba(0,0,0,1)","family":"","size":14.611872146118724},"xaxis":{"domain":[0,1],"automargin":true,"type":"linear","autorange":false,"range":[0.40000000000000002,5.5999999999999996],"tickmode":"array","ticktext":["apple","coros","garmin","polar","suunto"],"tickvals":[1,2,3,4,5],"categoryorder":"array","categoryarray":["apple","coros","garmin","polar","suunto"],"nticks":null,"ticks":"","tickcolor":null,"ticklen":3.6529680365296811,"tickwidth":0,"showticklabels":true,"tickfont":{"color":"rgba(77,77,77,1)","family":"","size":11.68949771689498},"tickangle":-0,"showline":false,"linecolor":null,"linewidth":0,"showgrid":true,"gridcolor":"rgba(235,235,235,1)","gridwidth":0,"zeroline":false,"anchor":"y","title":{"text":"Watch Brand","font":{"color":"rgba(0,0,0,1)","family":"","size":14.611872146118724}},"hoverformat":".2f"},"yaxis":{"domain":[0,1],"automargin":true,"type":"linear","autorange":false,"range":[-46,966],"tickmode":"array","ticktext":["0","250","500","750"],"tickvals":[0,250,500,750],"categoryorder":"array","categoryarray":["0","250","500","750"],"nticks":null,"ticks":"","tickcolor":null,"ticklen":3.6529680365296811,"tickwidth":0,"showticklabels":true,"tickfont":{"color":"rgba(77,77,77,1)","family":"","size":11.68949771689498},"tickangle":-0,"showline":false,"linecolor":null,"linewidth":0,"showgrid":true,"gridcolor":"rgba(235,235,235,1)","gridwidth":0,"zeroline":false,"anchor":"x","title":{"text":"N","font":{"color":"rgba(0,0,0,1)","family":"","size":14.611872146118724}},"hoverformat":".2f"},"shapes":[{"type":"rect","fillcolor":null,"line":{"color":null,"width":0,"linetype":[]},"yref":"paper","xref":"paper","layer":"below","x0":0,"x1":1,"y0":0,"y1":1}],"showlegend":false,"legend":{"bgcolor":null,"bordercolor":null,"borderwidth":0,"font":{"color":"rgba(0,0,0,1)","family":"","size":11.68949771689498}},"hovermode":"closest","barmode":"relative"},"config":{"doubleClick":"reset","modeBarButtonsToAdd":["hoverclosest","hovercompare"],"showSendToCloud":false},"source":"A","attrs":{"109e15b7f7243":{"x":{},"fill":{},"text":{},"type":"bar"}},"cur_data":"109e15b7f7243","visdat":{"109e15b7f7243":["function (y) ","x"]},"highlight":{"on":"plotly_click","persistent":false,"dynamic":false,"selectize":false,"opacityDim":0.20000000000000001,"selected":{"opacity":1},"debounce":0},"shinyEvents":["plotly_hover","plotly_click","plotly_selected","plotly_relayout","plotly_brushed","plotly_brushing","plotly_clickannotation","plotly_doubleclick","plotly_deselect","plotly_afterplot","plotly_sunburstclick"],"base_url":"https://plot.ly"},"evals":[],"jsHooks":[]}</script>
 </div>
 </div>
 <p>Garmin clearly dominates here, with Coros being in second place. Interestingly, there’s no Wahoo at all, despite sponsoring some runners.</p>
@@ -875,7 +875,8 @@ pre > code.sourceCode > span > a:first-child::before { text-decoration: underlin
 <span id="cb16-6"><a href="#cb16-6" aria-hidden="true" tabindex="-1"></a>    RColorBrewer<span class="sc">::</span><span class="fu">brewer.pal</span>(<span class="dv">9</span>, <span class="st">"Set1"</span>)</span>
 <span id="cb16-7"><a href="#cb16-7" aria-hidden="true" tabindex="-1"></a>  )) <span class="sc">+</span></span>
 <span id="cb16-8"><a href="#cb16-8" aria-hidden="true" tabindex="-1"></a>  <span class="fu">theme_minimal</span>() <span class="sc">+</span></span>
-<span id="cb16-9"><a href="#cb16-9" aria-hidden="true" tabindex="-1"></a>  <span class="fu">labs</span>(<span class="at">x =</span> <span class="st">"Shoe Brand"</span>, <span class="at">y =</span> <span class="st">"Elapsed Time"</span>)</span></code></pre></div><button title="Copy to Clipboard" class="code-copy-button"><i class="bi"></i></button></div>
+<span id="cb16-9"><a href="#cb16-9" aria-hidden="true" tabindex="-1"></a>  <span class="fu">labs</span>(<span class="at">x =</span> <span class="st">"Shoe Brand"</span>, <span class="at">y =</span> <span class="st">"Elapsed Time"</span>)  <span class="sc">+</span></span>
+<span id="cb16-10"><a href="#cb16-10" aria-hidden="true" tabindex="-1"></a>  <span class="fu">theme</span>(<span class="at">legend.position =</span> <span class="st">"none"</span>)</span></code></pre></div><button title="Copy to Clipboard" class="code-copy-button"><i class="bi"></i></button></div>
 </details>
 <div class="cell-output-display">
 <div>
@@ -968,7 +969,7 @@ pre > code.sourceCode > span > a:first-child::before { text-decoration: underlin
 <div class="cell">
 <details class="code-fold">
 <summary>Show the code</summary>
-<div class="code-copy-outer-scaffold"><div class="sourceCode cell-code" id="cb20"><pre class="sourceCode r code-with-copy"><code class="sourceCode r"><span id="cb20-1"><a href="#cb20-1" aria-hidden="true" tabindex="-1"></a><span class="fu">needs</span>(MatchIt, cobalt)</span>
+<div class="code-copy-outer-scaffold"><div class="sourceCode cell-code" id="cb20"><pre class="sourceCode r code-with-copy"><code class="sourceCode r"><span id="cb20-1"><a href="#cb20-1" aria-hidden="true" tabindex="-1"></a><span class="fu">needs</span>(MatchIt)</span>
 <span id="cb20-2"><a href="#cb20-2" aria-hidden="true" tabindex="-1"></a></span>
 <span id="cb20-3"><a href="#cb20-3" aria-hidden="true" tabindex="-1"></a>re_shoes <span class="ot">&lt;-</span> cleaned_data <span class="sc">|&gt;</span> </span>
 <span id="cb20-4"><a href="#cb20-4" aria-hidden="true" tabindex="-1"></a>  <span class="fu">filter</span>(shoe_brand <span class="sc">%in%</span> <span class="fu">c</span>(<span class="st">"nike"</span>, <span class="st">"asics"</span>, <span class="st">"adidas"</span>, <span class="st">"saucony"</span>),</span>
@@ -990,7 +991,7 @@ pre > code.sourceCode > span > a:first-child::before { text-decoration: underlin
 <span id="cb20-20"><a href="#cb20-20" aria-hidden="true" tabindex="-1"></a>)</span></code></pre></div><button title="Copy to Clipboard" class="code-copy-button"><i class="bi"></i></button></div>
 </details>
 </div>
-<p>Now the algorithm has paired runners into groups of two, one consisting of folks who wore Nike and the other one who did not. Let’s have a look if there are differences.</p>
+<p>Now the algorithm has paired runners into groups of two people that are similar with regard to their elapsed time and pace and have the same watch. However, only one of them wore Nike shoes, the other one did not. Thus, we have an artificial treatment and control group, if one will. Let’s have a look if there are differences.</p>
 <div class="cell">
 <details class="code-fold">
 <summary>Show the code</summary>
@@ -1055,17 +1056,12 @@ mean difference
       -7.745763 </code></pre>
 </div>
 </div>
-<p>Heck no. The p value tells me that if there truly were no difference between Nike and other brands, we would observe a difference as large as (or larger than) what we saw in about 77% of random samples.</p>
+<p>Heck no. The p value tells me that if there truly were no difference between Nike and other brands, we would observe a difference as large as (or larger than) what we saw in about 76% of random samples.</p>
 </section>
 </section>
 <section id="reflections" class="level2">
 <h2 class="anchored" data-anchor-id="reflections">Reflections</h2>
-<p>What did I learn from this exercise in productive procrastination?</p>
-<ol type="1">
-<li>Web scraping takes way longer than you think it will</li>
-<li>Strava runners love their Garmin Watches (spoiler: it’s not even close)</li>
-<li>Nike dominates the marathon world – at least among the faster runners.</li>
-</ol>
+<p>What can we take home from this? Garmin dominates the market, it’s not even close. The Forerunner is clearly the most successful among runners. Also, Nike dominates the shoe market. Looking at RE did not produce any more insight. Perhaps with more and cleaner data (i.e., similar devices, heart rate straps, validated heart rate zones), better comparisons could have been possible.</p>
 
 
 </section>
